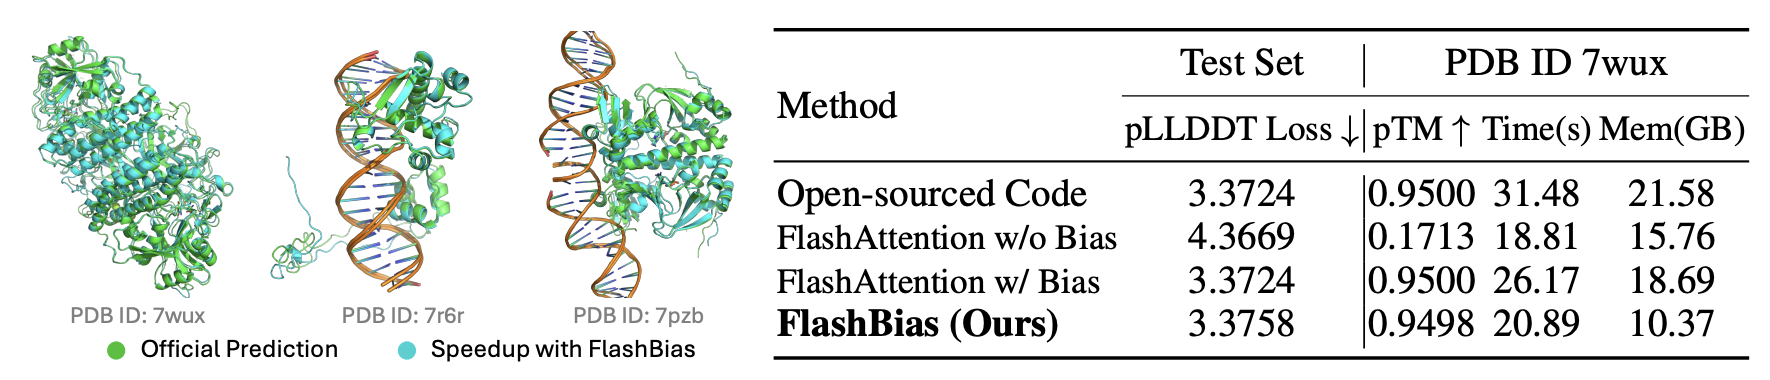
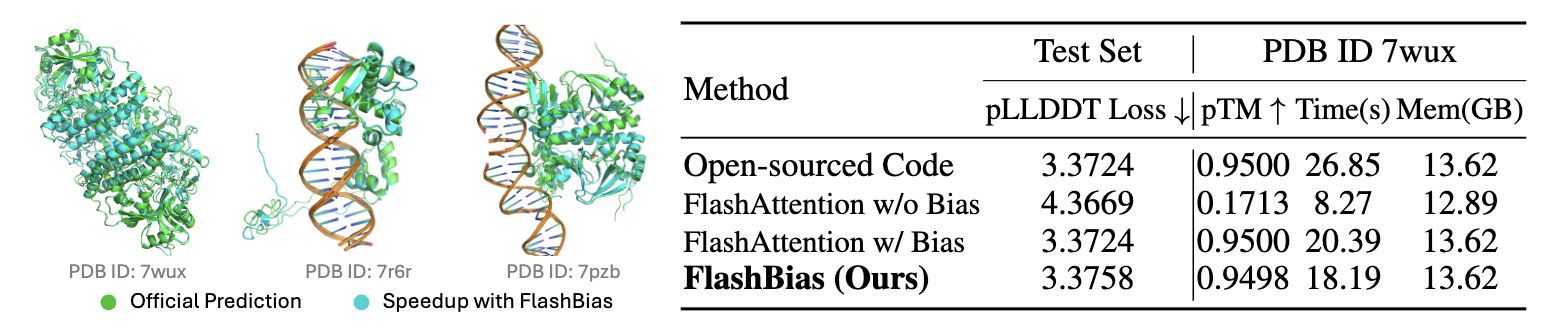
add sdpa-flashbias

diff --git a/flash_bias/benchmark.py b/flash_bias/benchmark.py
@@ -10,6 +10,7 @@ import triton
 from config import benchmark_configs
 from attention_func import (
     flashbias_triton,
+    flashbias_sdpa,
     attention_triton,
     attention_torch,
     attention_torch_compile,
@@ -43,12 +44,14 @@ def test_attention_correctness():
 
     # Compute outputs
     o_flashbias = flashbias_triton(q, k, v, q_bias.permute(0, 2, 1, 3).contiguous(),
-                                  k_bias.permute(0, 2, 1, 3).contiguous(), None, causal, softmax_scale)
+                                   k_bias.permute(0, 2, 1, 3).contiguous(), None, causal, softmax_scale)
     o_triton = attention_triton(q, k, v, bias, causal, softmax_scale)
     o_torch = attention_torch(q, k, v, softmax_scale, bias, causal)
     o_torch_compile = attention_torch_compile(q, k, v, softmax_scale, bias, causal)
     o_xformers = attention_xformers(q, k, v, softmax_scale, bias, causal)
     o_sdpa = attention_sdpa(q, k, v, softmax_scale, bias, causal)
+    o_flashbias_sdpa = flashbias_sdpa(q, k, v, q_bias.permute(0, 2, 1, 3).contiguous(),
+                                      k_bias.permute(0, 2, 1, 3).contiguous(), softmax_scale, None, causal)
 
     # Compute max forward errors
     max_forward_error_triton = torch.abs(o_flashbias - o_triton).max().item()
@@ -56,6 +59,7 @@ def test_attention_correctness():
     max_forward_error_torch_compile = torch.abs(o_flashbias - o_torch_compile).max().item()
     max_forward_error_xformers = torch.abs(o_flashbias - o_xformers).max().item()
     max_forward_error_sdpa = torch.abs(o_flashbias - o_sdpa).max().item()
+    max_forward_error_flashbias_sdpa = torch.abs(o_flashbias - o_flashbias_sdpa).max().item()
 
     # Compute loss and backpropagate for flash attention
     loss_flashbias = (0 - o_flashbias.sum())
@@ -118,6 +122,12 @@ def test_attention_correctness():
     dq_bias_sdpa = dbias_sdpa @ k_bias
     dk_bias_sdpa = dbias_sdpa.transpose(-2, -1) @ q_bias
 
+    # Compute loss and backpropagate for FlashBias SDPA
+    loss_flashbias_sdpa = (0 - o_flashbias_sdpa.sum())
+    loss_flashbias_sdpa.backward()
+    dq_flashbias_sdpa, dk_flashbias_sdpa, dv_flashbias_sdpa, dq_bias_flashbias_sdpa, dk_bias_flashbias_sdpa = [
+        x.grad.clone() for x in [q, k, v, q_bias, k_bias]]
+
     # Compute max gradient errors against triton implementation
     max_grad_errors_triton = {
         "q": torch.abs(dq_flash - dq_triton).max().item(),
@@ -163,12 +173,22 @@ def test_attention_correctness():
         "k_bias": torch.abs(dk_bias_flash - dk_bias_sdpa).max().item(),
     }
 
+    # Compute max gradient errors against SDPA implementation
+    max_grad_errors_flashbias_sdpa = {
+        "q": torch.abs(dq_flash - dq_flashbias_sdpa).max().item(),
+        "k": torch.abs(dk_flash - dk_flashbias_sdpa).max().item(),
+        "v": torch.abs(dv_flash - dv_flashbias_sdpa).max().item(),
+        "q_bias": torch.abs(dq_bias_flash - dq_bias_flashbias_sdpa).max().item(),
+        "k_bias": torch.abs(dk_bias_flash - dk_bias_flashbias_sdpa).max().item(),
+    }
+
     # Print max errors
     print(f"✅ Max Forward Error vs Triton: {max_forward_error_triton:.6e}")
     print(f"✅ Max Forward Error vs Torch: {max_forward_error_torch:.6e}")
     print(f"✅ Max Forward Error vs Torch Compile: {max_forward_error_torch_compile:.6e}")
     print(f"✅ Max Forward Error vs xFormers: {max_forward_error_xformers:.6e}")
     print(f"✅ Max Forward Error vs SDPA: {max_forward_error_sdpa:.6e}")
+    print(f"✅ Max Forward Error vs FlashBias SDPA: {max_forward_error_flashbias_sdpa:.6e}")
 
     print(f"✅ Max Gradient Errors vs Triton:")
     for param, err in max_grad_errors_triton.items():
@@ -190,6 +210,10 @@ def test_attention_correctness():
     for param, err in max_grad_errors_sdpa.items():
         print(f"   {param.upper()} : {err:.6e}")
 
+    print(f"✅ Max Gradient Errors vs FlashBias SDPA:")
+    for param, err in max_grad_errors_flashbias_sdpa.items():
+        print(f"   {param.upper()} : {err:.6e}")
+
 
 @triton.testing.perf_report(benchmark_configs)
 def bench_attention_comparison(BATCH, H, len, HEAD_DIM, RANK_DIM, CAUSAL, mode, provider, device="cuda"):
@@ -206,8 +230,9 @@ def bench_attention_comparison(BATCH, H, len, HEAD_DIM, RANK_DIM, CAUSAL, mode, 
     sm_scale = 1.0 / math.sqrt(HEAD_DIM)
 
     def forward_backward_flashbias():
-        out = flashbias_triton(q, k, v, q_bias.permute(0, 2, 1, 3).contiguous(), k_bias.permute(0, 2, 1, 3).contiguous(),
-                              None, CAUSAL, sm_scale)
+        out = flashbias_triton(q, k, v, q_bias.permute(0, 2, 1, 3).contiguous(),
+                               k_bias.permute(0, 2, 1, 3).contiguous(),
+                               None, CAUSAL, sm_scale)
         loss = (0 - out.sum())
         loss.backward()
         torch.cuda.synchronize()
@@ -273,10 +298,26 @@ def bench_attention_comparison(BATCH, H, len, HEAD_DIM, RANK_DIM, CAUSAL, mode, 
         v.grad = None
         bias.grad = None
 
+    def forward_backward_flashbias_sdpa():
+        out = flashbias_sdpa(q, k, v, q_bias.permute(0, 2, 1, 3).contiguous(),
+                               k_bias.permute(0, 2, 1, 3).contiguous(), sm_scale, None, CAUSAL)
+        loss = (0 - out.sum())
+        loss.backward()
+        torch.cuda.synchronize()
+        # Reset gradients for next iteration
+        q.grad = None
+        k.grad = None
+        v.grad = None
+        q_bias.grad = None
+        k_bias.grad = None
+
     if mode == "fwd":
         if provider == "triton-flash-bias":
             fn = lambda: flashbias_triton(q, k, v, q_bias.permute(0, 2, 1, 3).contiguous(),
-                                         k_bias.permute(0, 2, 1, 3).contiguous(), None, CAUSAL, sm_scale)
+                                          k_bias.permute(0, 2, 1, 3).contiguous(), None, CAUSAL, sm_scale)
+        elif provider == "sdpa-flash-bias":
+            fn = lambda: flashbias_sdpa(q, k, v, q_bias.permute(0, 2, 1, 3).contiguous(),
+                                          k_bias.permute(0, 2, 1, 3).contiguous(), sm_scale,None, CAUSAL)
         elif provider == "triton-attn-bias":
             fn = lambda: attention_triton(q, k, v, bias, CAUSAL, sm_scale)
         elif provider == "torch-attn-bias":
@@ -292,6 +333,8 @@ def bench_attention_comparison(BATCH, H, len, HEAD_DIM, RANK_DIM, CAUSAL, mode, 
     elif mode == "bwd":
         if provider == "triton-flash-bias":
             fn = forward_backward_flashbias
+        elif provider == "sdpa-flash-bias":
+            fn = forward_backward_flashbias_sdpa
         elif provider == "triton-attn-bias":
             fn = forward_backward_triton
         elif provider == "torch-attn-bias":

diff --git a/flash_bias/attention_func.py b/flash_bias/attention_func.py
@@ -183,3 +183,55 @@ def attention_sdpa(q, k, v, softmax_scale, bias=None, causal=False):
 
     # Return to original format (B, Lq, Nh, D)
     return output.transpose(1, 2)
+
+
+def flashbias_sdpa(q, k, v, q_bias, k_bias, softmax_scale, bias=None, causal=False):
+    """
+    Implements scaled dot-product attention using PyTorch's F.scaled_dot_product_attention.
+
+    Args:
+        q: Query tensor of shape (batch_size, seqlen_q, nheads, headdim)
+        k: Key tensor of shape (batch_size, seqlen_k, nheads, headdim)
+        v: Value tensor of shape (batch_size, seqlen_k, nheads, headdim)
+        softmax_scale: Scalar for softmax normalization (default: 1/sqrt(headdim))
+        bias: Optional bias tensor, shape (batch, nheads, seqlen_q, seqlen_k)
+
+    Returns:
+        Output tensor of shape (batch_size, seqlen_q, nheads, headdim)
+    """
+    # SDPA expects input of shape (B, Nh, L, D)
+    # Our inputs are already in this format after transposing
+    q = q.transpose(1, 2)  # (batch, nheads, seqlen_q, headdim)
+    k = k.transpose(1, 2)  # (batch, nheads, seqlen_k, headdim)
+    v = v.transpose(1, 2)  # (batch, nheads, seqlen_k, headdim)
+    q_bias = q_bias.transpose(1, 2)
+    k_bias = k_bias.transpose(1, 2)
+    _, _, _, q_hidden = q.shape
+    _, _, _, q_bias_hidden = q_bias.shape
+    if (q_hidden + q_bias_hidden) % 8 == 0:
+        # Call SDPA with our inputs
+        output = torch.nn.functional.scaled_dot_product_attention(
+            query=torch.concat([q * softmax_scale, q_bias], dim=-1),
+            key=torch.concat([k, k_bias], dim=-1),
+            value=v,
+            attn_mask=None,
+            dropout_p=0.0,
+            scale=1,
+            is_causal=causal,
+        )
+    else:
+        blank = torch.zeros(q.shape[0], q.shape[1], q.shape[2], 8 - ((q_hidden + q_bias_hidden) % 8), device=q.device,
+                            dtype=q.dtype)
+        # Call SDPA with our inputs
+        output = torch.nn.functional.scaled_dot_product_attention(
+            query=torch.concat([q * softmax_scale, q_bias, blank], dim=-1),
+            key=torch.concat([k, k_bias, blank], dim=-1),
+            value=v,
+            attn_mask=None,
+            dropout_p=0.0,
+            scale=1,
+            is_causal=causal,
+        )
+
+    # Return to original format (B, Lq, Nh, D)
+    return output.transpose(1, 2)

diff --git a/flash_bias/config.py b/flash_bias/config.py
@@ -9,34 +9,37 @@ Refactor from the original project from [https://github.com/pengzhangzhi]
 import triton
 
 # Benchmarking configuration
-BATCH, N_HEADS, HEAD_DIM, RANK_DIM, CAUSAL = 1, 50, 32, 2, True # 2, 4, 32, 8, False  # Aligned with test_attention_correctness
+BATCH, N_HEADS, HEAD_DIM, RANK_DIM, CAUSAL = 2, 4, 32, 8, False  # Aligned with test_attention_correctness
 
 benchmark_configs = [
     triton.testing.Benchmark(
         x_names=["len"],
-        x_vals=list(2 ** i for i in range(8, 14)),
+        x_vals=list(2 ** i for i in range(8, 15)),
         line_arg="provider",
         line_vals=[
             "triton-flash-bias",
-            # "triton-attn-bias",
-            # "torch-attn-bias",
-            # "torch-compile-attn-bias",
+            "sdpa-flash-bias",
+            "triton-attn-bias",
+            "torch-attn-bias",
+            "torch-compile-attn-bias",
             "xformers-attn-bias",
             "torch-sdpa"
         ],
         line_names=[
             "Triton-flash-bias",
-            # "Triton-Attn-Bias",
-            # "PyTorch-Attn-Bias",
-            # "PyTorch-Compile-Attn-Bias",
+            "PyTorch-SDPA-flash-bias",
+            "Triton-Attn-Bias",
+            "PyTorch-Attn-Bias",
+            "PyTorch-Compile-Attn-Bias",
             "xFormers-Attn-Bias",
             "PyTorch-SDPA"
         ],
         styles=[
             ("red", "-"),
-            # ("pink", "-"),
-            # ("blue", "--"),
-            # ("cyan", "-."),
+            ("red", "--"),
+            ("pink", "-"),
+            ("blue", "--"),
+            ("cyan", "-."),
             ("orange", "-."),
             ("green", ":")
         ],

diff --git a/flash_bias/README.md b/flash_bias/README.md
@@ -20,6 +20,7 @@ python benchmark_alibi_gpt2.py
 3. Check the efficiency benchmark among
 
 - Triton implementation of FlashBias (**Ours**)
+- PyTorch-SDPA based implementation of FlashBias (**Ours**)
 - Triton implementation of FlashAttention with Bias ([Opensource Implementation](https://github.com/pengzhangzhi/Flash-Attention-with-Bias-Triton))
 - Pytorch implementation of vanilla attention with Bias
 - Pytorch implementation of vanilla attention with Bias with Compile
@@ -28,28 +29,43 @@ python benchmark_alibi_gpt2.py
 
 ## Efficiency Comparison
 
+We suggest to use [Triton-based FlashBias](https://github.com/thuml/FlashBias/blob/main/flash_bias/flash_bias_triton.py) in inference and [PyTorch-SDPA-based FlashBias](https://github.com/thuml/FlashBias/blob/main/flash_bias/attention_func.py) for training.
+
 <p align="center">
-<img src=".\attention-comparison-batch2-head4-d32-r8-fwd.png" height = "250" alt="" align=center />
+<img src=".\attention-comparison-batch2-head4-d32-r8-causalFalse-fwd.png" height = "250" alt="" align=center />
 <br><br>
 <b>Figure 1.</b> Efficiency comparison for forward pass.
 </p>
 
 <p align="center">
-<img src=".\attention-comparison-batch2-head4-d32-r8-bwd.png" height = "250" alt="" align=center />
+<img src=".\attention-comparison-batch2-head4-d32-r8-causalFalse-bwd.png" height = "250" alt="" align=center />
 <br><br>
 <b>Figure 2.</b> Efficiency comparison for backward propagation.
 </p>
 
+
 ## Quick Start of FlashBias
 
-See `flash_bias_triton.py` for more details.
-
 ```python
+## Triton-based FlashBias, See `flash_bias_triton.py` for more details.
 from flash_bias_triton import flash_bias_func
-output_flash = flash_bias_func(q, k, v, q_bias, k_bias, None, False, 1 / np.sqrt(headdim))
+output_flash_triton = flash_bias_func(q, k, v, q_bias, k_bias, None, False, 1 / np.sqrt(headdim))
+
+## PyTorch-SDPA-based FlashBias
+import torch
+# Notably, the dimension of concat[q, q_bias] should be divided evenly by 8; otherwise, you cannot activate flashattention in the backend
+output_flash_sdpa = torch.nn.functional.scaled_dot_product_attention(
+    query=torch.concat([q * softmax_scale, q_bias], dim=-1),
+    key=torch.concat([k, k_bias], dim=-1),
+    value=v,
+    attn_mask=None,
+    dropout_p=0.0,
+    scale=1,
+    is_causal=causal,
+)
 ```
 
-## API Configuration
+## Triton Kernel API Configuration
 
 ```python
 flash_bias_func(q, k, v, q_bias=None, k_bias=None, mask=None, causal=False, softmax_scale=None)

diff --git a/README.md b/README.md
@@ -31,8 +31,22 @@ The following are some representative applications of FlashBias.
 ## Usage
 
 ```python
+## Triton-based FlashBias, See `flash_bias_triton.py` for more details.
 from flash_bias_triton import flash_bias_func
 output_flash = flash_bias_func(q, k, v, q_bias, k_bias, None, False, 1 / np.sqrt(headdim))
+
+## PyTorch-SDPA-based FlashBias
+import torch
+# Notably, the dimension of concat[q, q_bias] should be divided evenly by 8; otherwise, you cannot activate flashattention in the backend
+output_flash_sdpa = torch.nn.functional.scaled_dot_product_attention(
+    query=torch.concat([q * softmax_scale, q_bias], dim=-1),
+    key=torch.concat([k, k_bias], dim=-1),
+    value=v,
+    attn_mask=None,
+    dropout_p=0.0,
+    scale=1,
+    is_causal=causal,
+)
 ```
 
 ## Overall Comparison
